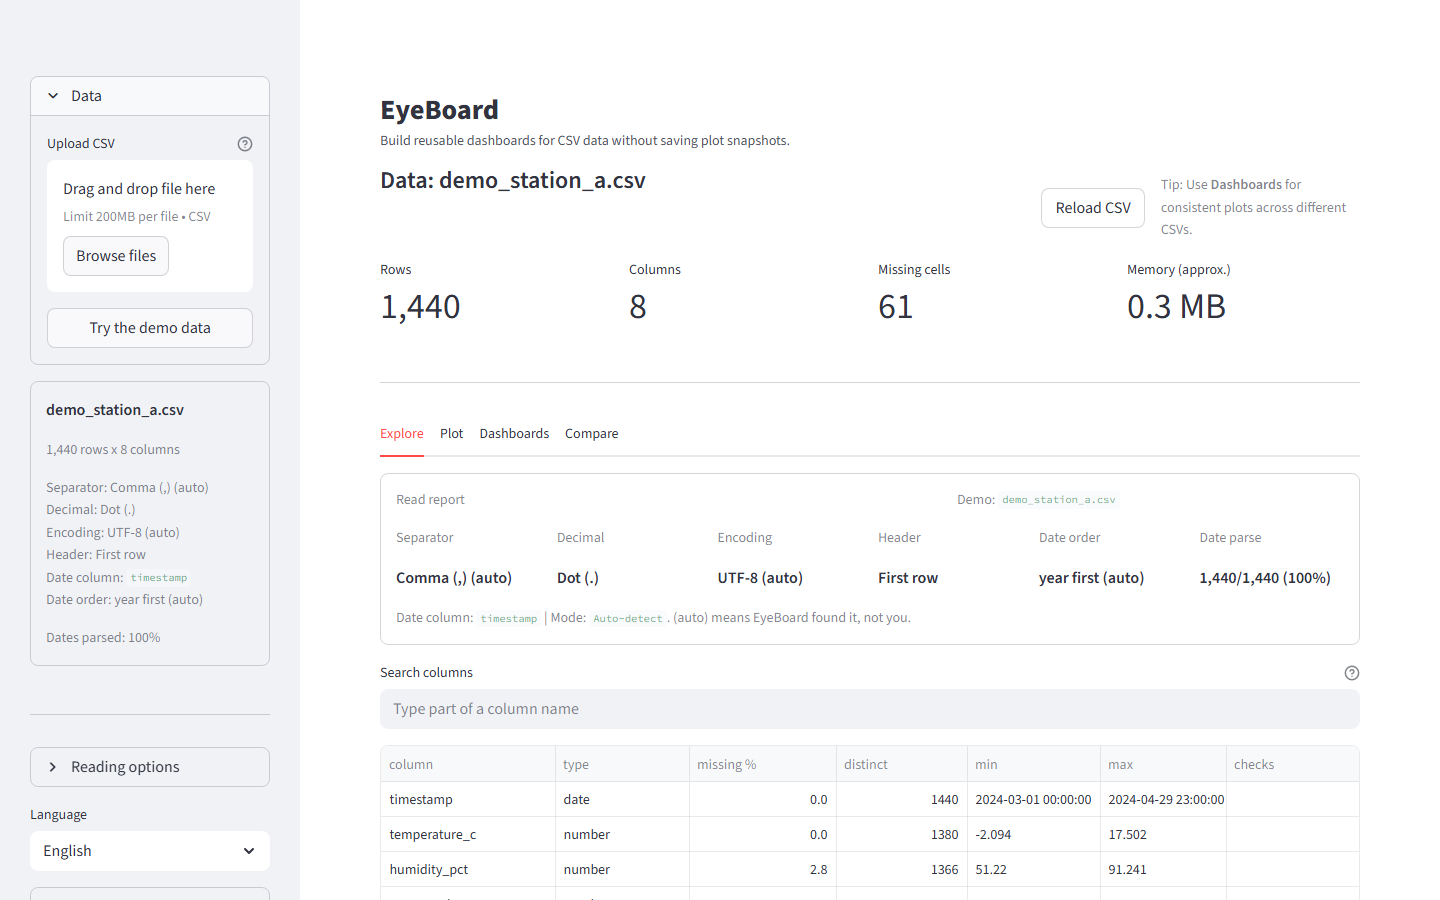
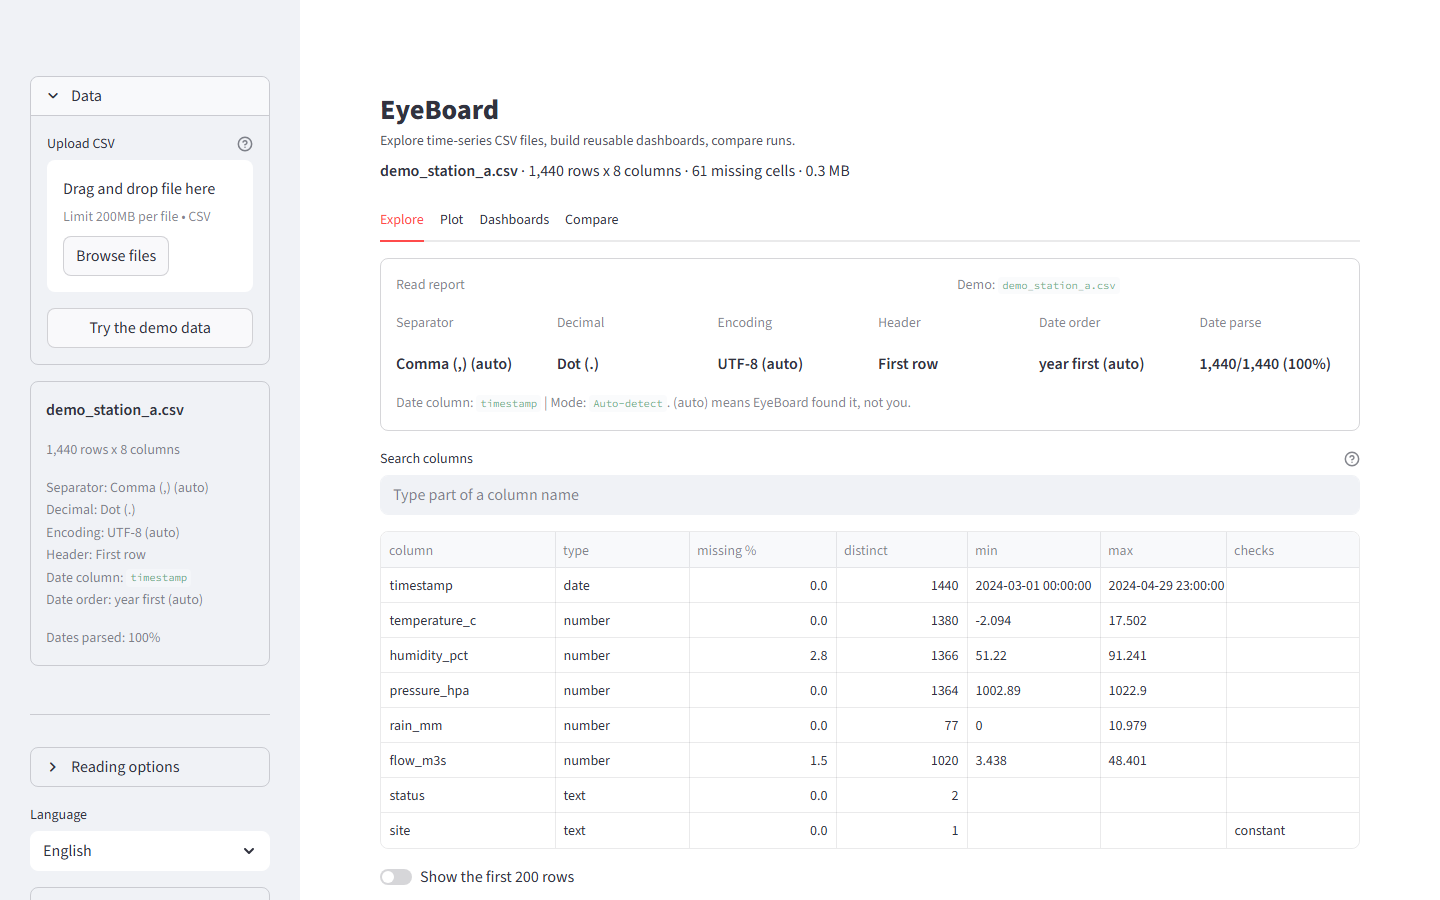
refactor: replace the tall page header with one line about the file
The four large metrics, the Reload CSV button and the tip took about 300 pixels above the tabs and repeated what the sidebar card and the Explore table show. One line now gives the file name, size, missing cells and memory. The Reload CSV button is gone: every file is an upload or a cached copy, so a rerun never re-read anything. The subtitle describes the tool as it is now, and the screenshots are retaken.

diff --git a/src/eyeboard/translations/fr.py b/src/eyeboard/translations/fr.py
@@ -19,7 +19,7 @@ FR: dict[str, str] = {
     "Some saved dashboards could not be loaded.": "Certains tableaux de bord enregistrés n'ont pas pu être chargés.",
     "The selected recent file is no longer available.": "Le fichier récent sélectionné n'est plus disponible.",
     " and ": " et ",
-    "Build reusable dashboards for CSV data without saving plot snapshots.": "Créez des tableaux de bord réutilisables pour vos données CSV, sans enregistrer d'images de graphiques.",
+    "Explore time-series CSV files, build reusable dashboards, compare runs.": "Explorez des fichiers CSV de séries temporelles, créez des tableaux de bord réutilisables, comparez des exécutions.",
     # Notes on columns and plots
     "Matched ": "Associé ",
     "Missing X column: '{column}'": "Colonne X introuvable : '{column}'",
@@ -66,12 +66,9 @@ FR: dict[str, str] = {
     "Plotted data (CSV)": "Données tracées (CSV)",
     "Metrics (CSV)": "Métriques (CSV)",
     # Header and read report
+    "{count:,} missing cells": "{count:,} cellules vides",
+    "{size:.1f} MB": "{size:.1f} Mo",
     "Not used": "Non utilisée",
-    "Rows": "Lignes",
-    "Columns": "Colonnes",
-    "Missing cells": "Cellules vides",
-    "Memory (approx.)": "Mémoire (approx.)",
-    "#### Data: {name}": "#### Données : {name}",
     "No non-empty values": "Aucune valeur non vide",
     "Separator": "Séparateur",
     "Decimal": "Décimale",
@@ -87,8 +84,6 @@ FR: dict[str, str] = {
     "Demo": "Démo",
     "Recent cache": "Cache récent",
     "Server path": "Chemin serveur",
-    "Reload CSV": "Recharger le CSV",
-    "Tip: Use **Dashboards** for consistent plots across different CSVs.": "Astuce : utilisez **Tableaux de bord** pour des graphiques cohérents d'un CSV à l'autre.",
     "Read report": "Rapport de lecture",
     "n/a": "n/d",
     ". (auto) means EyeBoard found it, not you.": ". (auto) signifie qu'EyeBoard l'a trouvé tout seul.",

diff --git a/src/eyeboard/ui/header.py b/src/eyeboard/ui/header.py
@@ -27,33 +27,20 @@ def render_header() -> None:
 
 
 def render_dataset_summary(dataset: MainDatasetContext) -> None:
-    """Render top-of-page dataset summary metrics."""
-    left, right = st.columns([2, 1], vertical_alignment="top")
-    with left:
-        st.markdown(
-            t("#### Data: {name}", name=escape_markdown(dataset.label or "CSV"))
-        )
-    with right:
-        st.markdown("")
-        action_col, tip_col = st.columns([0.7, 1.3], vertical_alignment="center")
-        with action_col:
-            if st.button(t("Reload CSV"), key="reload_current_csv", width="stretch"):
-                st.rerun()
-        with tip_col:
-            st.caption(
-                t("Tip: Use **Dashboards** for consistent plots across different CSVs.")
-            )
-
-    m1, m2, m3, m4 = st.columns(4)
-    m1.metric(t("Rows"), f"{len(dataset.df):,}")
-    m2.metric(t("Columns"), f"{len(dataset.cols):,}")
-    m3.metric(t("Missing cells"), f"{int(dataset.df.isna().sum().sum()):,}")
-    m4.metric(
-        t("Memory (approx.)"),
-        f"{dataset.df.memory_usage(deep=True).sum() / (1024**2):.1f} MB",
-    )
-
-    st.divider()
+    """Render one line about the loaded file; the details are in Explore."""
+    missing = int(dataset.df.isna().sum().sum())
+    megabytes = dataset.df.memory_usage(deep=True).sum() / (1024**2)
+    facts = [
+        t(
+            "{rows:,} rows x {columns:,} columns",
+            rows=len(dataset.df),
+            columns=len(dataset.cols),
+        ),
+        t("{count:,} missing cells", count=missing),
+        t("{size:.1f} MB", size=megabytes),
+    ]
+    name = escape_markdown(dataset.label or "CSV")
+    st.markdown(f"**{name}**  ·  " + "  ·  ".join(facts))
 
 
 def render_read_report(dataset: MainDatasetContext) -> None:

diff --git a/tests/test_app_smoke.py b/tests/test_app_smoke.py
@@ -63,8 +63,8 @@ def test_with_a_file_every_tab_renders_without_errors(workdir):
         "Plot",
         "Dashboards",
     ]
-    metrics = {m.label: m.value for m in at.metric}
-    assert metrics["Rows"] == "28" and metrics["Columns"] == "3"
+    summary = next(m.value for m in at.markdown if m.value.startswith("**small"))
+    assert "28 rows x 3 columns" in summary and "0 missing cells" in summary
     facts = {m.value for m in at.markdown}
     assert {"**UTF-8 (auto)**", "**Semicolon (;) (auto)**"} <= facts
     assert "**day first (auto)**" in facts
@@ -261,8 +261,8 @@ def test_the_demo_button_loads_the_demo_data_without_remembering_it(workdir):
     at.run()
 
     assert not at.exception and not at.error
-    metrics = {m.label: m.value for m in at.metric}
-    assert metrics["Rows"] == "1,440"
+    summary = next(m.value for m in at.markdown if m.value.startswith("**demo"))
+    assert "1,440 rows x 8 columns" in summary
     assert "**year first (auto)**" in {m.value for m in at.markdown}
     assert not any("decimal comma" in w.value for w in at.warning)
     recent = json.loads((workdir / "recent" / "index.json").read_text(encoding="utf-8"))

diff --git a/src/eyeboard/config.py b/src/eyeboard/config.py
@@ -7,7 +7,7 @@ APP_PAGE_ICON = ":chart_with_upwards_trend:"
 APP_LAYOUT = "wide"
 APP_HEADER_TITLE = "EyeBoard"
 APP_HEADER_SUBTITLE = (
-    "Build reusable dashboards for CSV data without saving plot snapshots."
+    "Explore time-series CSV files, build reusable dashboards, compare runs."
 )
 
 CANDIDATE_SEPARATORS = [",", ";", "\t", "|"]
